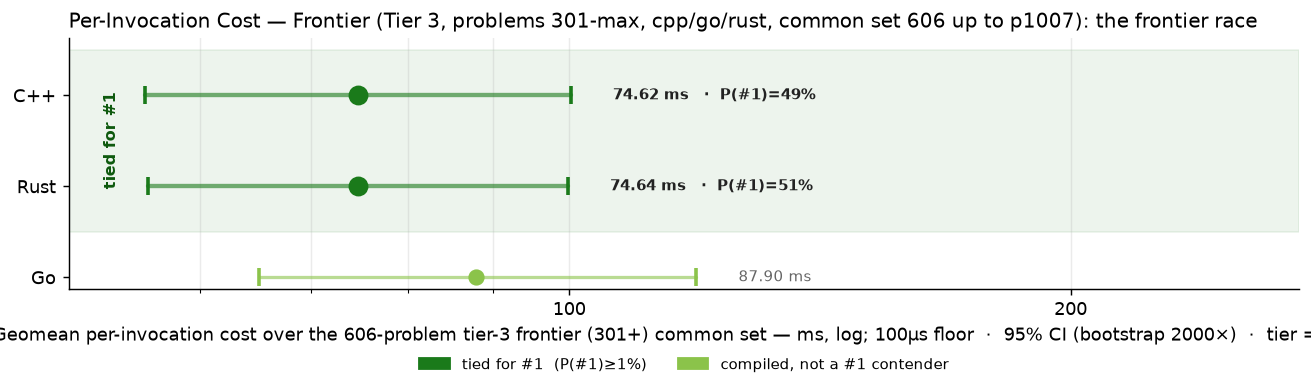
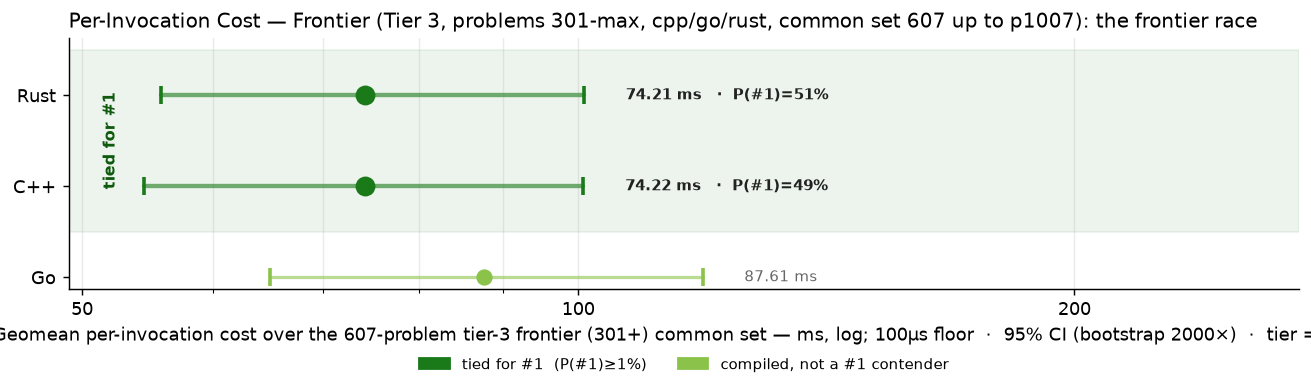
go p0591

diff --git a/RESULTS.md b/RESULTS.md
@@ -1,6 +1,6 @@
 # Project Euler — Cross-Language Benchmarks
 
-> **Scope: 4521 in-scope cells across 1007 problems × tiered languages — 4334 measured (95.9% coverage).**
+> **Scope: 4521 in-scope cells across 1007 problems × tiered languages — 4335 measured (95.9% coverage).**
 > The cross-language ranking below is computed over the **200-problem common set** (problems in 1-200 where every language has a passing measurement) — the apples-to-apples Foundation comparison surface.  Per-tier rankings and coverage detail appear further below.
 > Growing carefully — each new problem and language is audited for state-leak
 > safety, verified for answer correctness, and added only when it cleanly fits the
@@ -70,15 +70,15 @@ Same scatter as the Foundation chart, restricted to the tier-2 active languages 
 
 The frontier verification trio — C++, Go, Rust — on problems above 300. 3-way cross-language agreement is the verification protocol (strictly stronger than 2-way; see JOURNEY.md "Tier Reframing" episode for the p254 lesson that motivated it). Python and Zig are explicitly out of this tier — python's wall cost makes it impractical at level 5+, and zig's role caps at Tier 2.
 
-### Per-Invocation Cost (Common Set, 606 of ≤707 problems in scope)
+### Per-Invocation Cost (Common Set, 607 of ≤707 problems in scope)
 
 ![Per-Invocation Cost — Tier 3](charts/per_iter_total_tier3.png)
 
-| Rank | Language | Geomean (606-problem common set) | Total (sum) | Lines of code | vs Fastest |
+| Rank | Language | Geomean (607-problem common set) | Total (sum) | Lines of code | vs Fastest |
 |------|----------|--------------------:|------------:|--------------:|-----------:|
-| 1 | **C++** | 74.62 ms | 1812.03 s | 86,054 | 1.00× |
-| 2 | **Rust** | 74.64 ms | 1700.73 s | 113,849 | 1.00× |
-| 3 | **Go** | 87.90 ms | 2077.19 s | 108,749 | 1.18× |
+| 1 | **Rust** | 74.21 ms | 1700.73 s | 114,405 | 1.00× |
+| 2 | **C++** | 74.22 ms | 1812.03 s | 86,297 | 1.00× |
+| 3 | **Go** | 87.61 ms | 2077.20 s | 109,075 | 1.18× |
 
 ### Speed vs Code Size
 

diff --git a/per_problem/per_problem_0501-0600.md b/per_problem/per_problem_0501-0600.md
@@ -98,7 +98,7 @@ in tier-1 display order (native → managed → interpreted).
 | **p0588** | 675.55 ms | 226.8 µs | 160.8 µs |
 | **p0589** | 964.82 ms | 1.82 s | 445.36 ms |
 | **p0590** | 157.26 ms | 276.84 ms | 234.72 ms |
-| **p0591** | 2.99 ms | 2.33 ms | — |
+| **p0591** | 2.99 ms | 2.33 ms | 11.34 ms |
 | **p0592** | 45.35 ms | 1.18 s† | 77.42 ms |
 | **p0593** | 1.80 s | 2.15 s | 2.44 s |
 | **p0594** | 95.67 ms | 101.22 ms | 1.98 ms |
